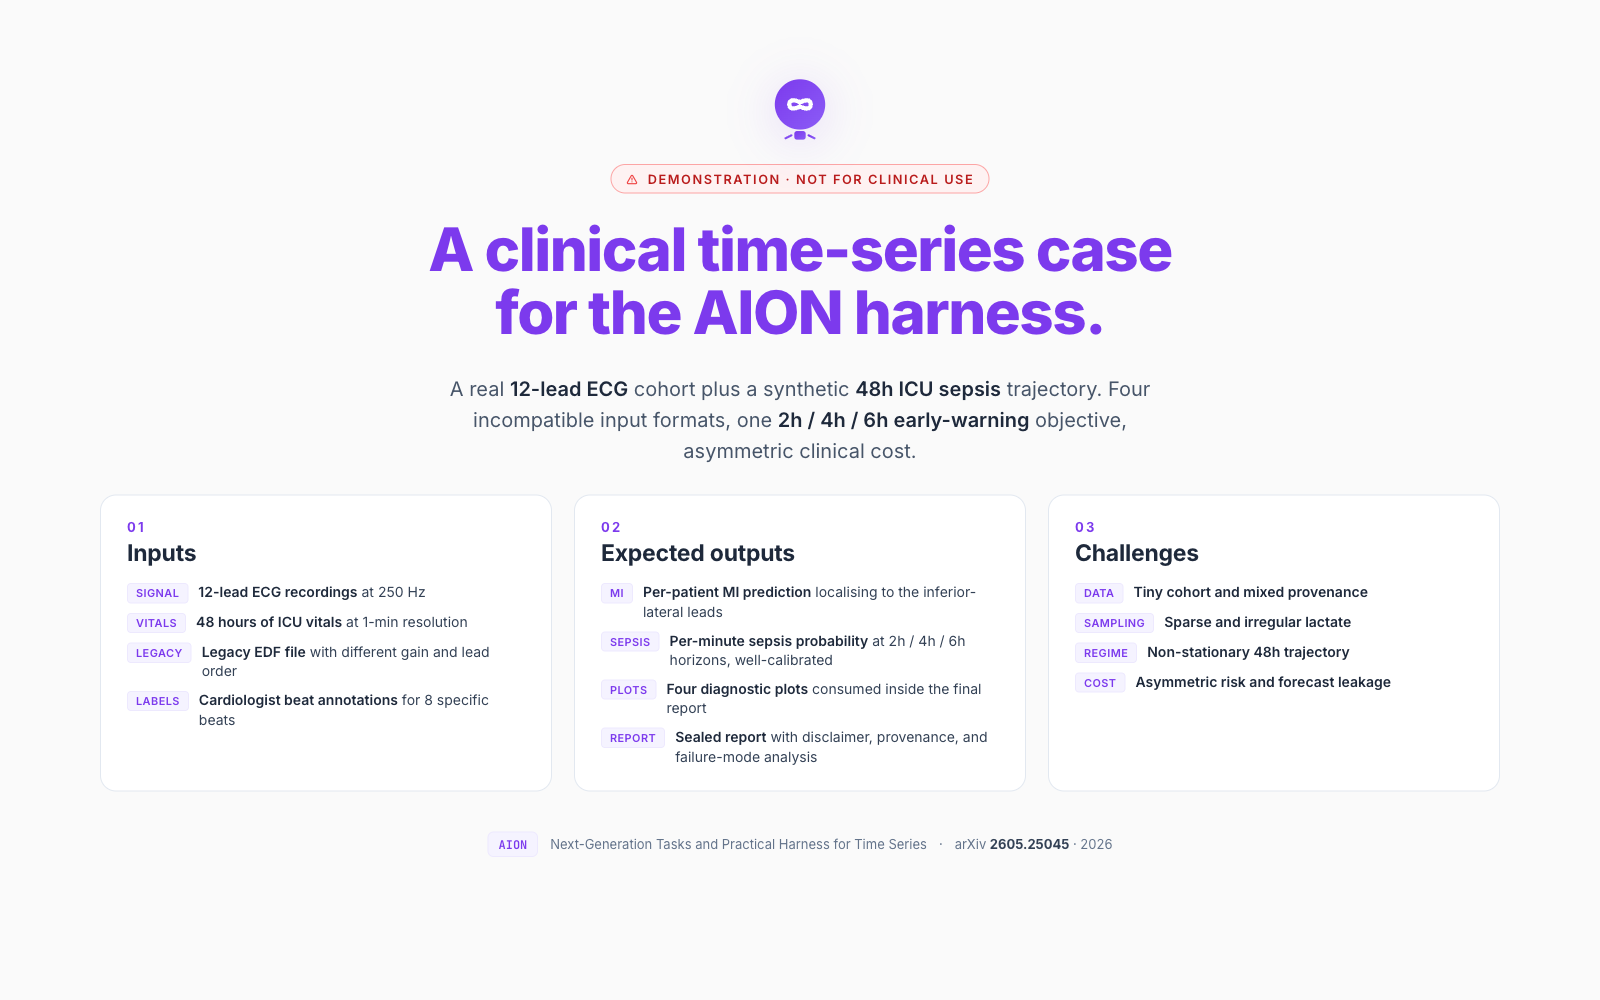
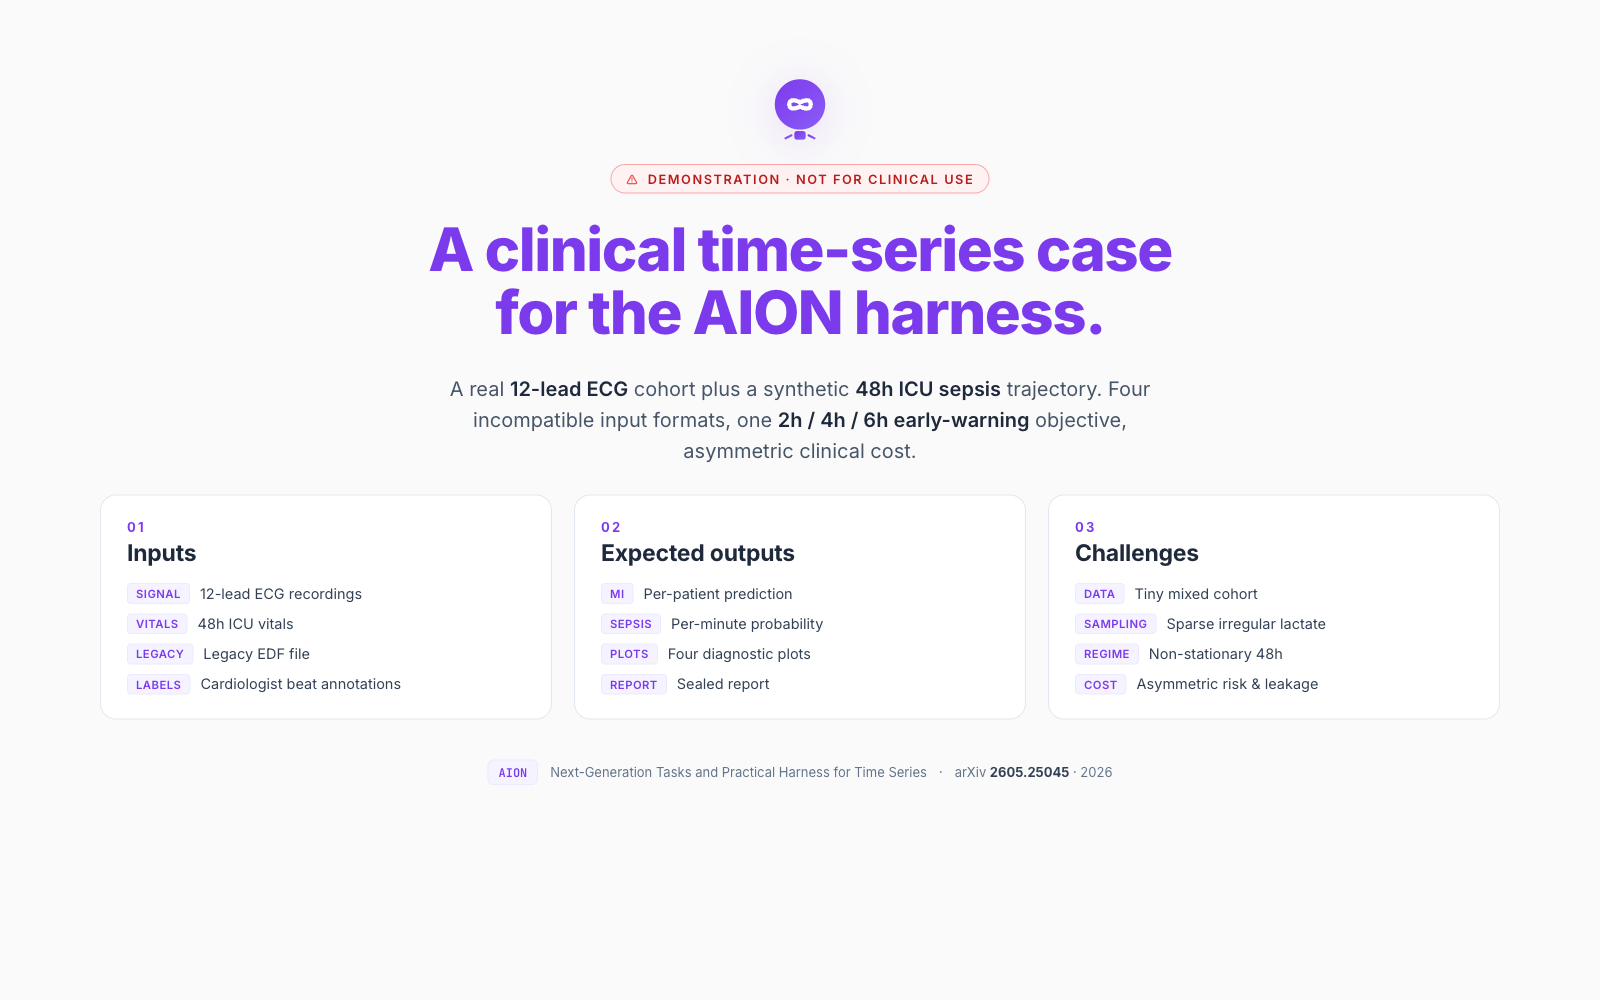
feat(medical-demo): tighten overview items — ≤5 words, no bold, single-line
- All four items per block now fit on a single line with
  white-space: nowrap.
- Removed <strong> on item text — every word same weight.
- Stripped detail: 250 Hz, 1-min, lead order, 2h/4h/6h,
  inferior-lateral, 8 beats, well-calibrated — all gone.
  Items are now bare noun phrases ≤5 words.
- Inputs:  12-lead ECG recordings · 48h ICU vitals ·
           Legacy EDF file · Cardiologist beat annotations
- Outputs: Per-patient prediction · Per-minute probability ·
           Four diagnostic plots · Sealed report
- Challenges: Tiny mixed cohort · Sparse irregular lactate ·
              Non-stationary 48h · Asymmetric risk & leakage

Visual: three blocks align row-for-row, equal heights, no
wrap, no emphasis. Fits 1000px viewport without scroll.

diff --git a/example/aion-medical-demo/medical/slide-overview.html b/example/aion-medical-demo/medical/slide-overview.html
@@ -134,12 +134,12 @@
     gap: clamp(6px, 0.6vw, 9px);
   }
   .item {
-    display: flex; align-items: flex-start; gap: 10px;
-    font-size: clamp(12.5px, 0.92vw, 14px);
-    line-height: 1.4;
+    display: flex; align-items: center; gap: 10px;
+    font-size: clamp(13px, 0.95vw, 14.5px);
+    line-height: 1.3;
     color: var(--slate-700);
+    white-space: nowrap;
   }
-  .item strong { color: var(--slate-800); font-weight: 600; }
   .item .tag {
     flex: 0 0 auto;
     display: inline-block;
@@ -212,10 +212,10 @@
         <h2>Inputs</h2>
       </div>
       <div class="body">
-        <div class="item"><span class="tag">Signal</span><span><strong>12-lead ECG recordings</strong> at 250 Hz</span></div>
-        <div class="item"><span class="tag">Vitals</span><span><strong>48 hours of ICU vitals</strong> at 1-min resolution</span></div>
-        <div class="item"><span class="tag">Legacy</span><span><strong>Legacy EDF file</strong> with different gain and lead order</span></div>
-        <div class="item"><span class="tag">Labels</span><span><strong>Cardiologist beat annotations</strong> for 8 specific beats</span></div>
+        <div class="item"><span class="tag">Signal</span><span>12-lead ECG recordings</span></div>
+        <div class="item"><span class="tag">Vitals</span><span>48h ICU vitals</span></div>
+        <div class="item"><span class="tag">Legacy</span><span>Legacy EDF file</span></div>
+        <div class="item"><span class="tag">Labels</span><span>Cardiologist beat annotations</span></div>
       </div>
     </section>
 
@@ -225,10 +225,10 @@
         <h2>Expected outputs</h2>
       </div>
       <div class="body">
-        <div class="item"><span class="tag">MI</span><span><strong>Per-patient MI prediction</strong> localising to the inferior-lateral leads</span></div>
-        <div class="item"><span class="tag">Sepsis</span><span><strong>Per-minute sepsis probability</strong> at 2h / 4h / 6h horizons, well-calibrated</span></div>
-        <div class="item"><span class="tag">Plots</span><span><strong>Four diagnostic plots</strong> consumed inside the final report</span></div>
-        <div class="item"><span class="tag">Report</span><span><strong>Sealed report</strong> with disclaimer, provenance, and failure-mode analysis</span></div>
+        <div class="item"><span class="tag">MI</span><span>Per-patient prediction</span></div>
+        <div class="item"><span class="tag">Sepsis</span><span>Per-minute probability</span></div>
+        <div class="item"><span class="tag">Plots</span><span>Four diagnostic plots</span></div>
+        <div class="item"><span class="tag">Report</span><span>Sealed report</span></div>
       </div>
     </section>
 
@@ -238,10 +238,10 @@
         <h2>Challenges</h2>
       </div>
       <div class="body">
-        <div class="item"><span class="tag">Data</span><span><strong>Tiny cohort and mixed provenance</strong></span></div>
-        <div class="item"><span class="tag">Sampling</span><span><strong>Sparse and irregular lactate</strong></span></div>
-        <div class="item"><span class="tag">Regime</span><span><strong>Non-stationary 48h trajectory</strong></span></div>
-        <div class="item"><span class="tag">Cost</span><span><strong>Asymmetric risk and forecast leakage</strong></span></div>
+        <div class="item"><span class="tag">Data</span><span>Tiny mixed cohort</span></div>
+        <div class="item"><span class="tag">Sampling</span><span>Sparse irregular lactate</span></div>
+        <div class="item"><span class="tag">Regime</span><span>Non-stationary 48h</span></div>
+        <div class="item"><span class="tag">Cost</span><span>Asymmetric risk &amp; leakage</span></div>
       </div>
     </section>
 
